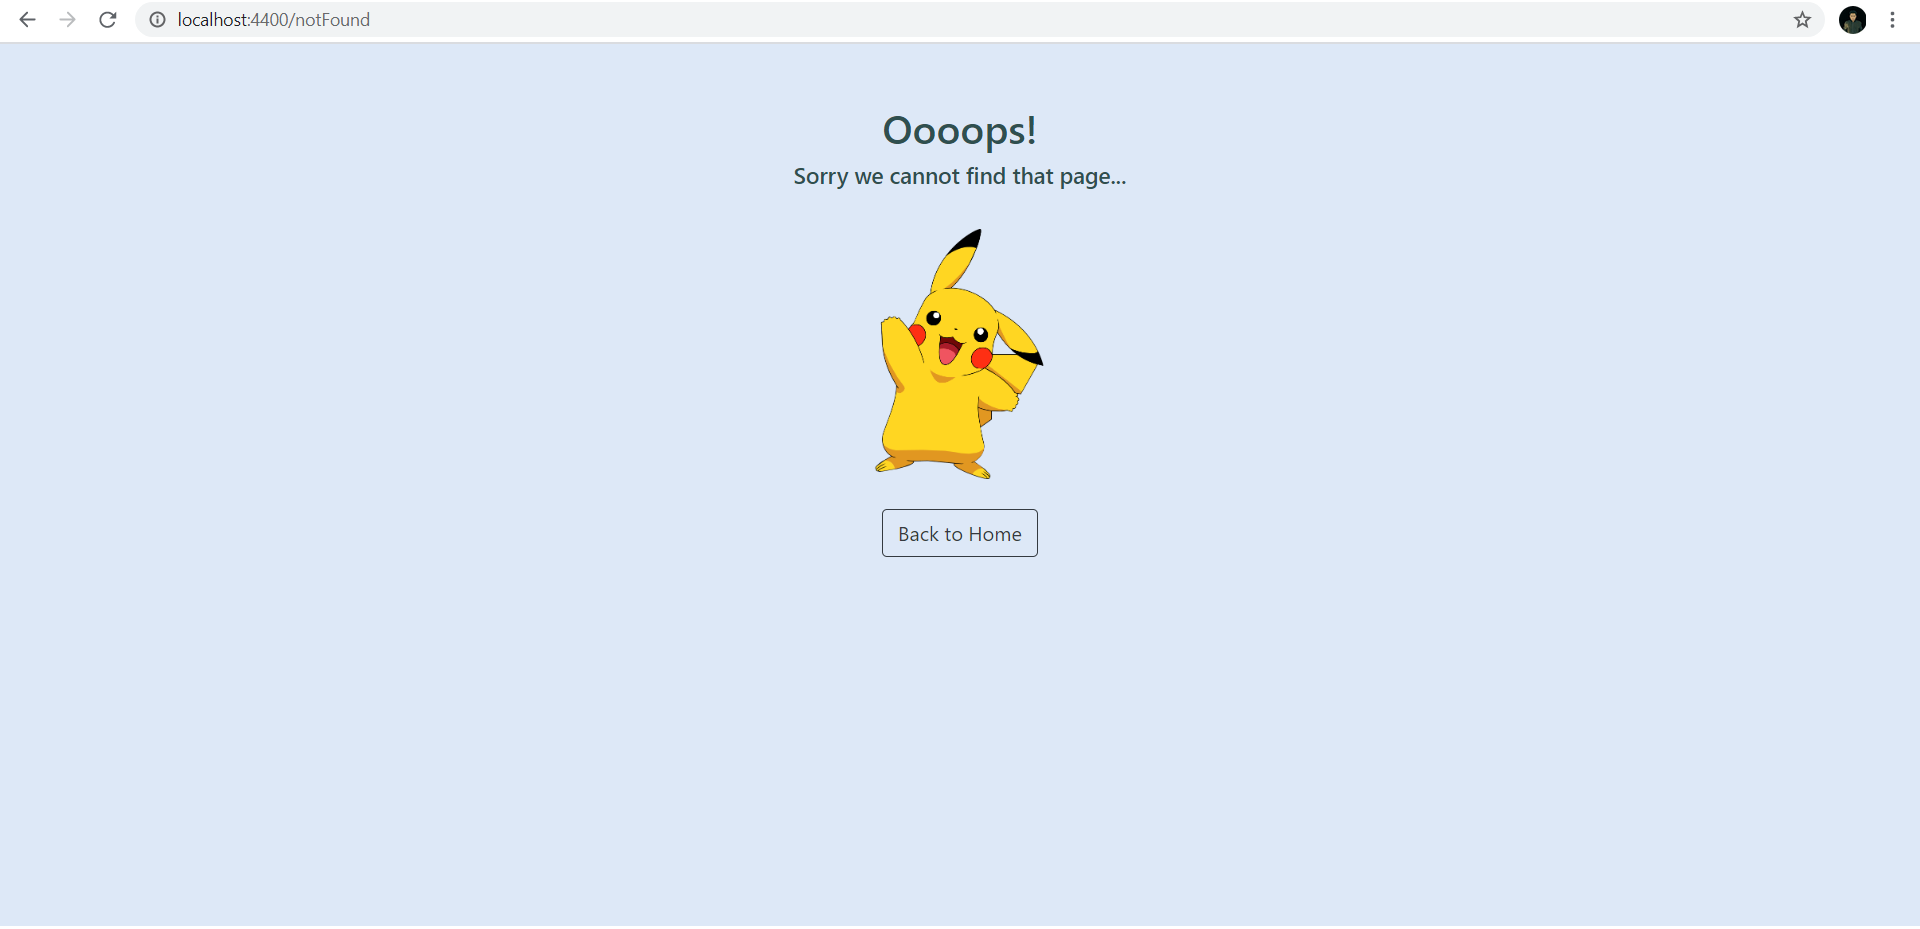
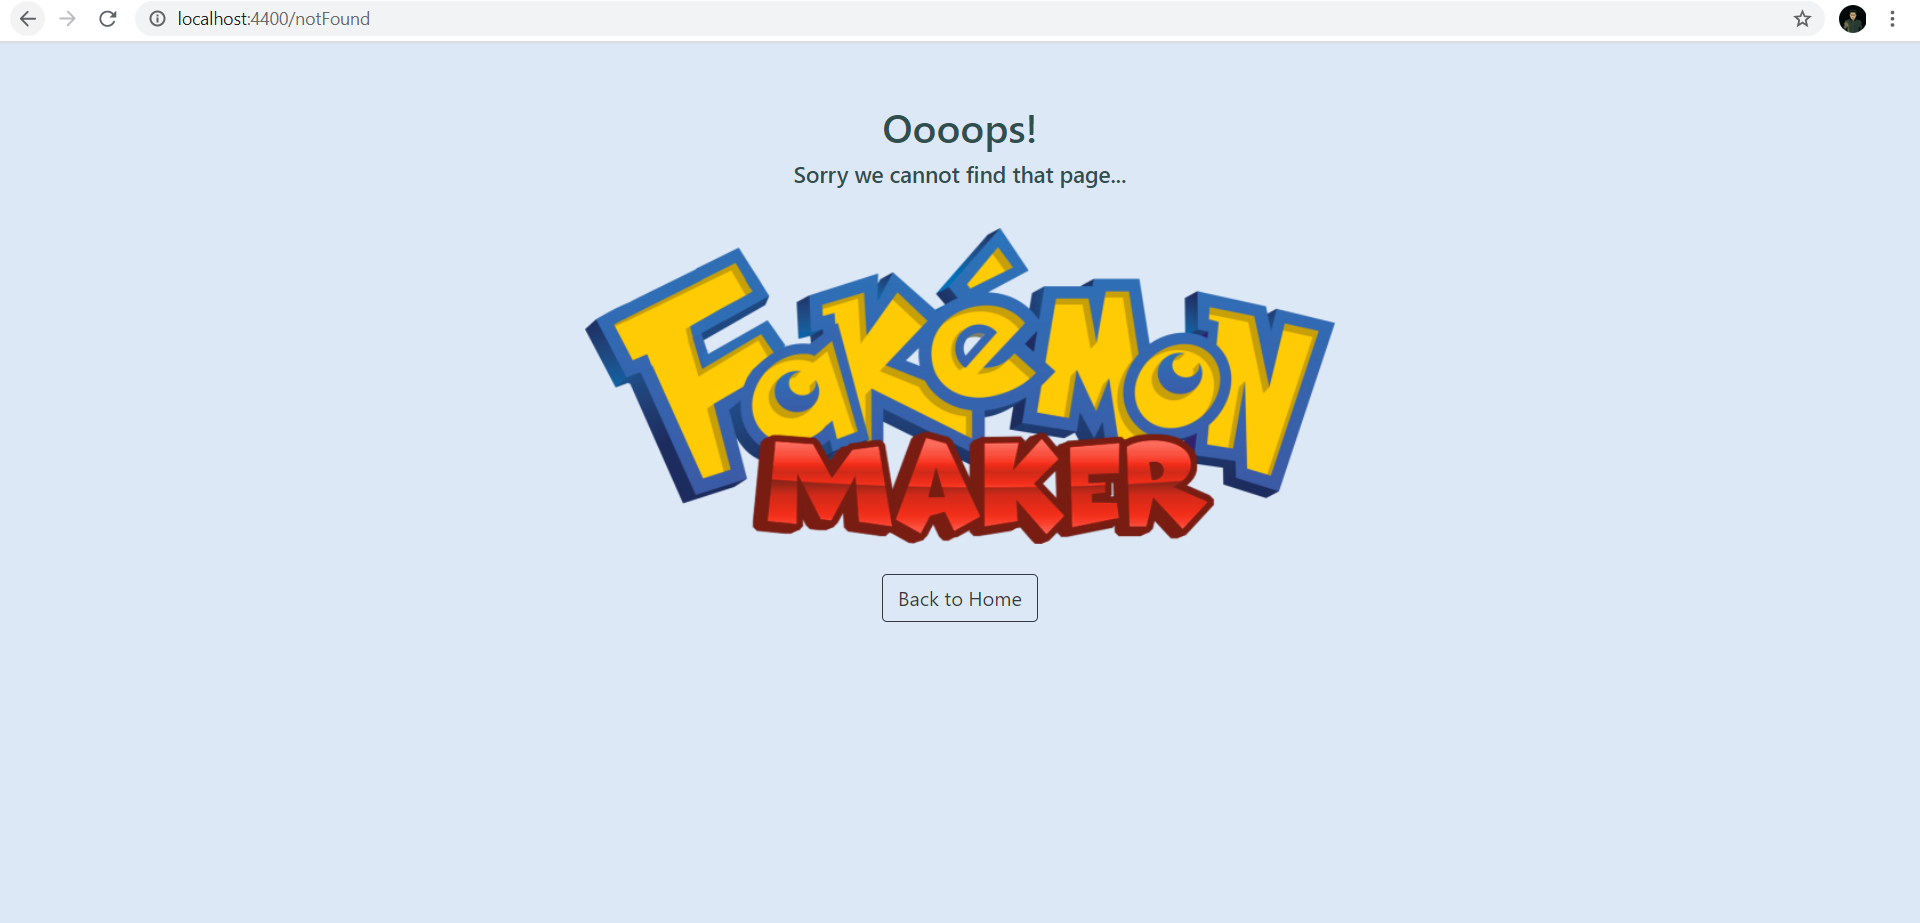
Exam

diff --git a/templates/home.html b/templates/home.html
@@ -37,12 +37,12 @@
 <body>
     <br>
         <img
-            src="http://localhost:4400/filetemp/pokemon-logo.png" width="400px" height="auto"
+            src="http://localhost:4400/filetemp/pokemon-logo.png" width="600px" height="auto"
         />
         <br>
         <form action="http://localhost:4400/hasil" method="POST">
             <p>
-                <input name="name" type="text" placeholder="Type Pokemon Name" required/>
+                <input name="name" type="text" size=50 placeholder="Type Pokemon Name" required/>
             </p>
             <p> 
                 <input type="submit" value="Go!">

diff --git a/templates/notFound.html b/templates/notFound.html
@@ -34,7 +34,7 @@
     </h2>
     <br>
     <img
-        src="http://localhost:4400/filetemp/pikachu.png" width="200px" height="auto"
+        src="http://localhost:4400/filetemp/fakemon-logo.png" width="600px" height="auto"
     />    
     <br>
     <br>
